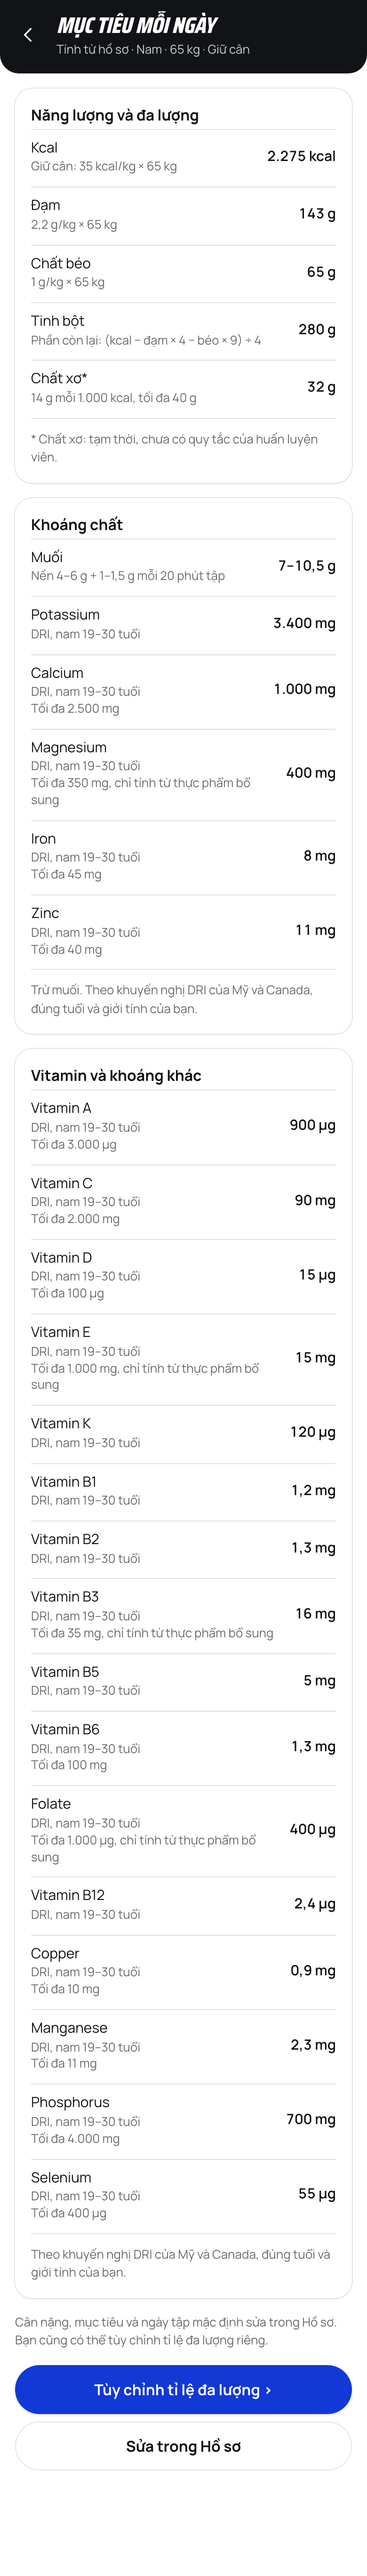
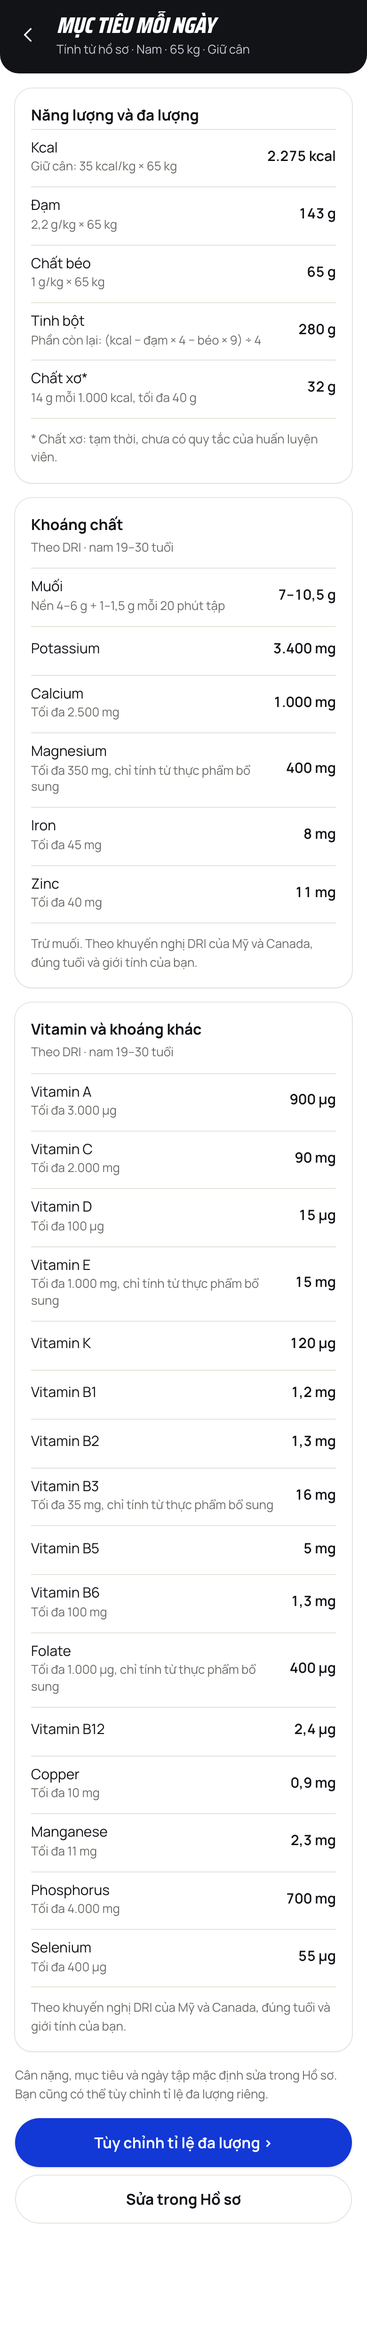
cc-73b: screenshots refreshed, progress and PR note

diff --git a/PROGRESS.md b/PROGRESS.md
@@ -3,7 +3,7 @@
 ## Now working
 | Task | Owner | Files / routes |
 |---|---|---|
-| 20/10/2026 | cc-73b coach targets at the upper end + US DRI micronutrients with upper limits (feat/ui-cc-73b off origin/main 16f7e1f, worktree nutrition-fk-cc-73b, port 3101) | Claude Code. One PR for Hao's review (not merged). apps/web lib/targets.ts, lib/rda.ts (US DRI + UL), lib/upper-limits.ts, lib/profile.ts, lib/day-history.ts, lib/period.ts, lib/overview*.ts, lib/onboarding.ts, lib/share-card.ts, lib/releases.ts, components/settings/target-rows.ts + targets-screen.tsx, components/home/home-hero.tsx, components/overview/*, app/(app)/micros/**, public/sw.js; apps/api/internal/targets (Hao asked for the Go side in the brief); packages/vectors; docs/dri-targets-2026-10-20.md, docs/pr/cc-73b-custom-targets.md. |
+| 20/10/2026 | cc-73b coach targets at the upper end + US DRI micronutrients with upper limits (feat/ui-cc-73b off origin/main 16f7e1f, worktree nutrition-fk-cc-73b, port 3101) | Claude Code. Pushed as feat/ui-cc-73b with a PR for Hao's review (not merged); main (PR #25, #26) merged in; release 2026-10-21b, sw.js 2026-10-21.3; gate:full green and go test green; gates ran on port 3120 because 3101 and 3113 were held by other sessions' servers. apps/web lib/targets.ts, lib/rda.ts (US DRI + UL), lib/upper-limits.ts, lib/profile.ts, lib/day-history.ts, lib/period.ts, lib/overview*.ts, lib/onboarding.ts, lib/share-card.ts, lib/releases.ts, components/settings/target-rows.ts + targets-screen.tsx, components/home/home-hero.tsx, components/overview/*, app/(app)/micros/**, public/sw.js; apps/api/internal/targets (Hao asked for the Go side in the brief); packages/vectors; docs/dri-targets-2026-10-20.md, docs/pr/cc-73b-custom-targets.md. |
 | 20/10/2026 | fix/probe-67-pill-overlap (off main 7967c76, worktree nutrition-fk-main-fix) | Header: on a phone the Chưa lưu pill (or Ngoại tuyến · n chờ gửi) sat on top of the › day arrow at 360, 390 and 430 wide, so the arrow could not be tapped (cc-72 made the wordmark never shrink). While the sync status has something to say the wordmark steps aside, the date is 76 px wide at least (was 104), and the offline text wraps; probe part D of hotfix_late_writes.py checks it (today and yesterday, 360/390/430, online and offline). cc_67_part3 failed at lunchtime on every commit since cc-67 (it picks the default meal from the clock, and the demo day's lunch holds Thịt bò nạc): its check now counts only rows that were not there before; passes at 07:30, 15:30, 19:30 and 11:40. Also restores docs/screenshots/cc-62/strip-flick.png, which a gate run had overwritten in PR #21. |
 | 20/10/2026 | hotfix-late-writes (hotfix/late-writes off origin/main fc24b09, worktree nutrition-fk-late-writes) | Hotfix for Hao, with a change in apps/api/internal/diary that Hao asked for (Dong's lane; the PR note is for Dong). A write is judged by when the user made it: the API accepts an optional `made_at` (RFC 3339) on diary writes and judges the day by it (made_at's HCM day minus 1; refused when older than 14 days or more than 5 minutes ahead; without it today and yesterday, as before). The web sends the outbox item's createdAt as `made_at` on every send and retry (sw.js too, VERSION 2026-10-20.3), moves held FINAL 409 items back to queued once per app version, Thử lại sends everything in the list and always says what happened, the Chưa lưu list shows day, food and a plain reason with Chuyển sang hôm nay and Bỏ món này, and Đồng bộ rồi đăng xuất shows progress and, on failure, how many are left and why. No release note: 2026-10-20b is pinned to three items (Hao). Probe tests/probes/hotfix_late_writes.py (live build). Claim released at merge; Hao deploys. |
 | 20/10/2026 | Overnight run 20/10: gates, cc-65, cc-62, cc-66, cc-64, cc-72, probes cc_26/cc_44, API hardening (feat/overnight-1020 off origin/main 0d232ad, worktree nutrition-fk-overnight-1020, port 3101; PR #20 https://github.com/DongDuong2001/nutrition-fortifykitchen/pull/20, not merged; summary in docs/overnight-2026-10-20.md) | Claude Code. apps/web (gates, tests, sheets, design tokens and class codemods, motion, releases) and apps/api (Part 8, Go only, for Dong). |

diff --git a/docs/pr/cc-73b.md b/docs/pr/cc-73b.md
@@ -31,4 +31,7 @@ Source of the DRI numbers (Health Canada's publication; nothing guessed), the ca
 
 ## Checks
 
-See the PR description for the gate output.
+- `npm run gate:full` (PORT=3120): typecheck, 2.034 unit tests, build:demo, test:align, test:hydration and probe:all, all green. `go vet ./...` and `go test ./...` green (`TestSharedTargetVectors`, `TestSharedPeriodVectors` and `TestSharedDRIVectors` run, none skips).
+- Probes changed to follow the new numbers, and one fixed for a clock bug: `cc_64_followups.py` failed after 14:00 because the meal an add goes to follows the time of day (it now pins the clock).
+- Screenshots at 390 (and Mục tiêu at 100 % and 150 % text): `docs/screenshots/cc-73b/`.
+- Mục tiêu shows "Theo DRI · nam 19–30 tuổi" once under each DRI card's title (Hao's review), checked with the ui-ux-pro-max rules at 390 and 150 % text.
